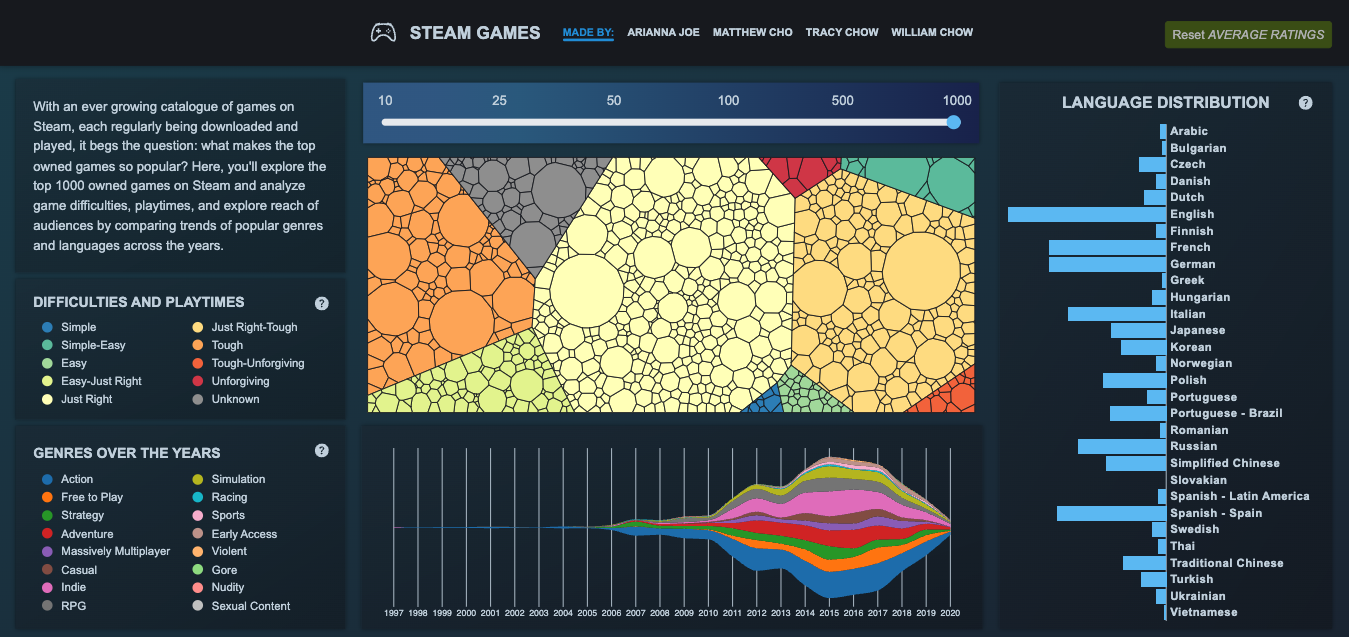
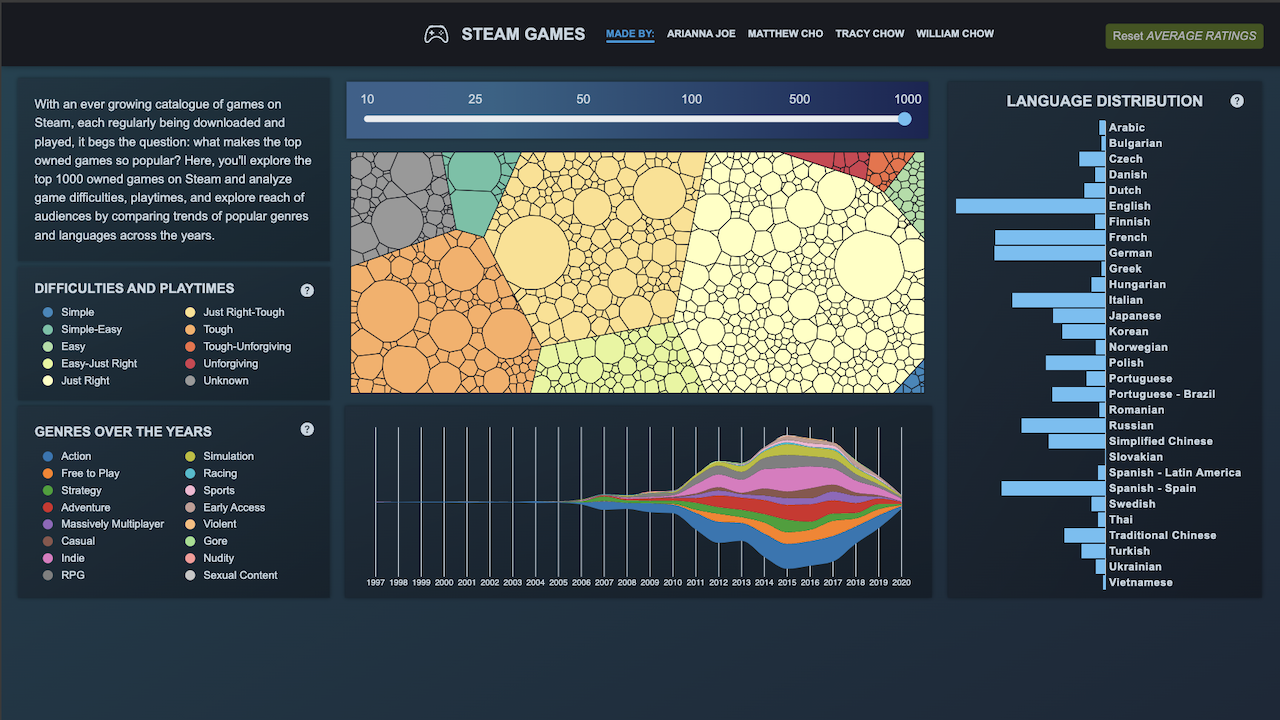
update thumbnail size

diff --git a/README.md b/README.md
@@ -7,7 +7,7 @@ Group Members: Arianna Joe, Matthew Cho, Tracy Chow, William Chow
 ## Overview
 With an ever growing catalogue of games on Steam, it can be hard to compare games against each other, discover what kind of features they have in common and figure out why some games are owned by so many people. To help users delve into exploring Steam game statistics, we propose to create a visualization where users will be able to explore top owned games while analyzing game difficulties and playtimes. Users will also be able to explore the reach of audiences by comparing trends of popular genres and languages across the years.
 
-![thumbnail](thumbnail.png)
+![thumbnail](readmePic.png)
 
 This project is built upon the Steam Games DB provided here: https://github.com/leinstay/steamdb
 
